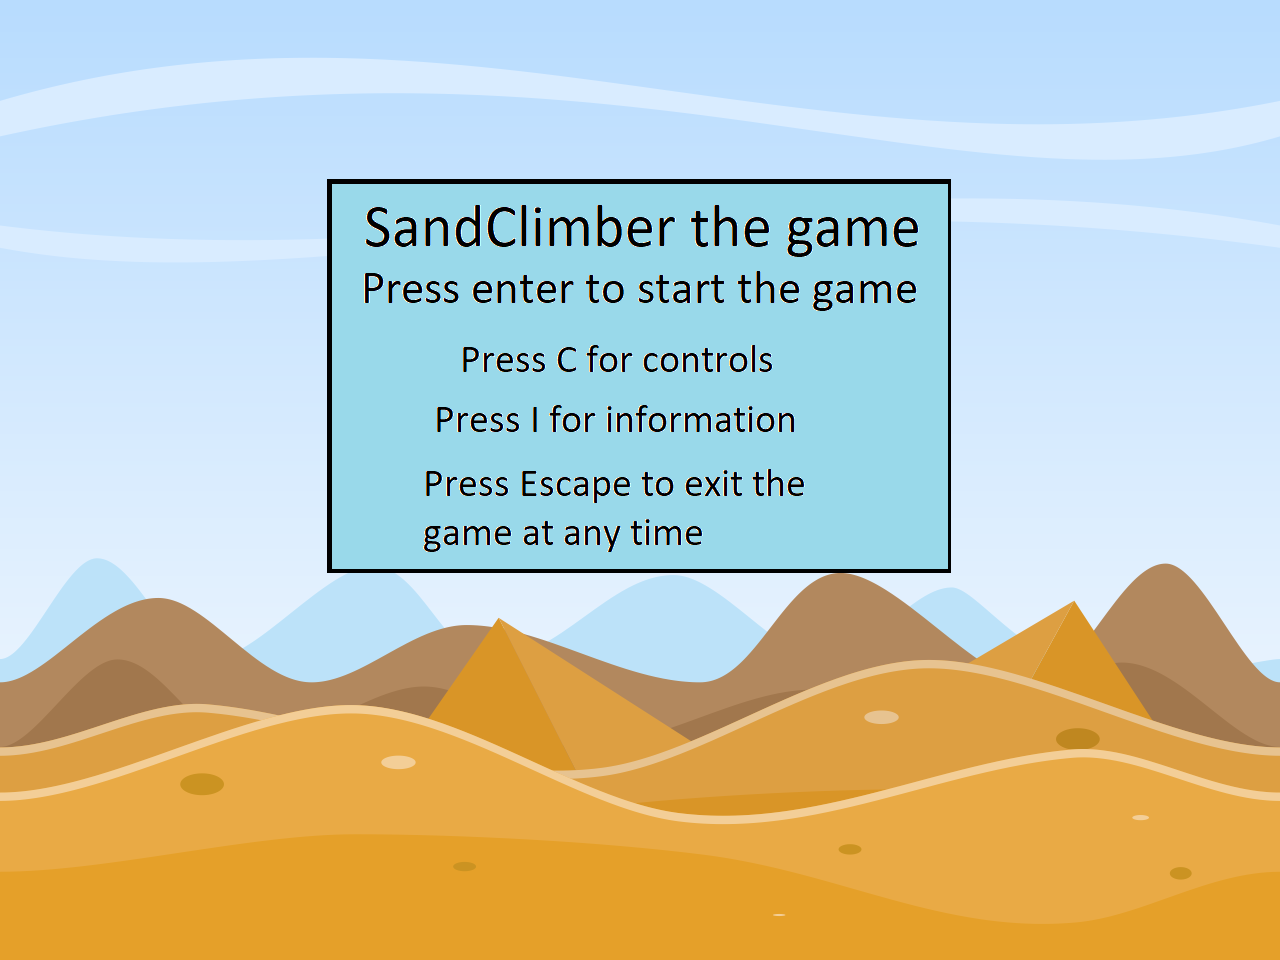
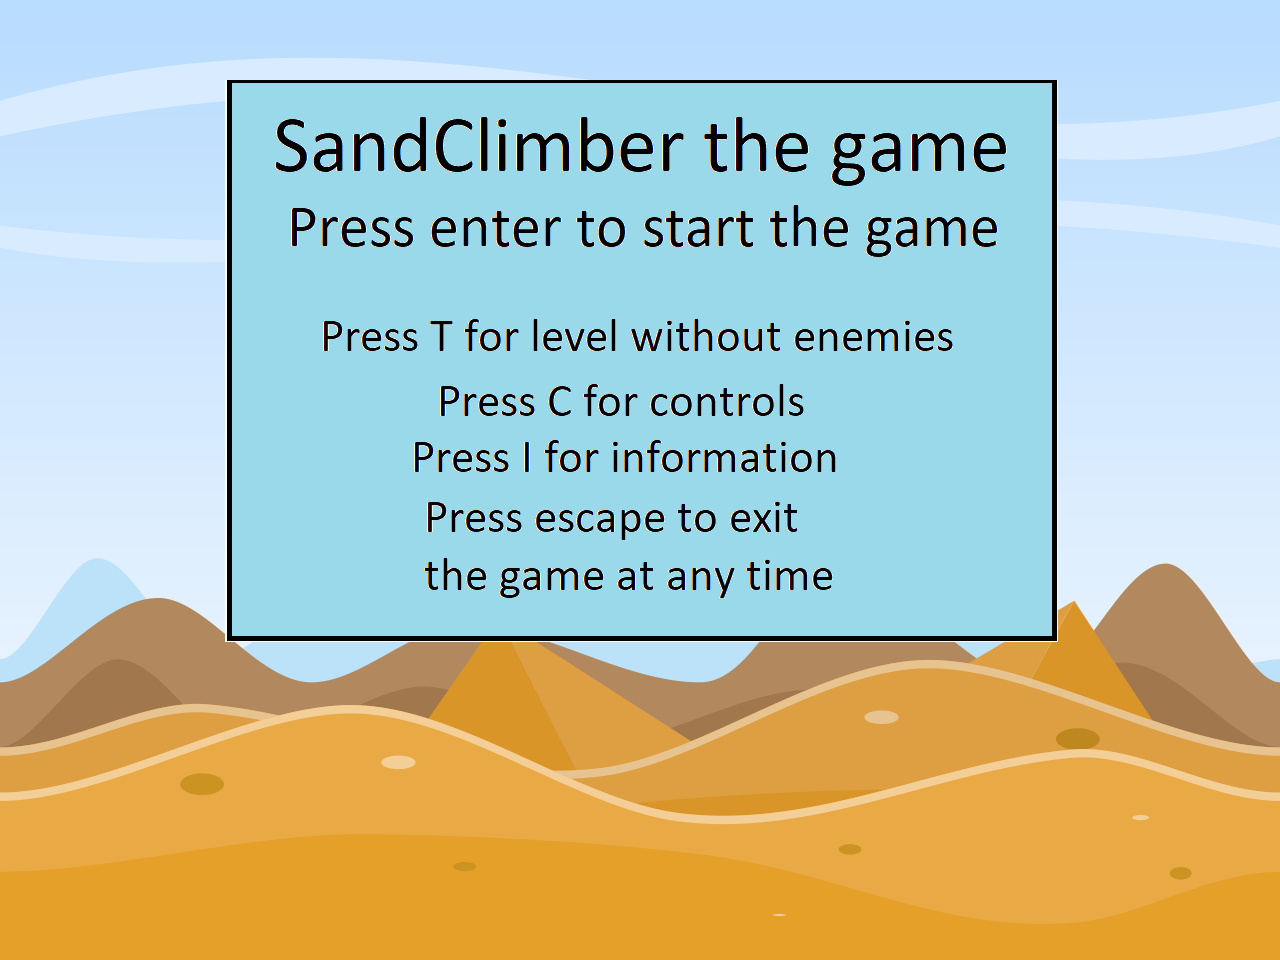
added new pictures and previousgamestate

Changed region(s): [[0.1562, 0.0625, 0.8438, 0.6875]]

diff --git a/2D_Game/2D_Game/Game1.cs b/2D_Game/2D_Game/Game1.cs
@@ -24,7 +24,7 @@ namespace _2D_Game
         public static int screenWidth;
         public static int screenHeight;
 
-        private Texture2D myBackground, menuImage, diedImage, wonImage;
+        private Texture2D myBackground, menuImage, diedImage, wonImage, controlsImage, infoImage;
         private Rectangle mainFrame;
 
         LevelFactoryWithEnemies level1, level2;
@@ -37,10 +37,13 @@ namespace _2D_Game
             level1,
             level2,
             Beginner,
+            Info,
+            Controls,
             GameWon,
             GameOver
         }
         GameState gameState = GameState.Menu;
+        GameState prevGameState = GameState.Menu;
 
         public Game1()
         {
@@ -86,6 +89,8 @@ namespace _2D_Game
             menuImage = Content.Load<Texture2D>("png/BGMenu");
             wonImage = Content.Load<Texture2D>("png/BGWON");
             diedImage = Content.Load<Texture2D>("png/BGDead");
+            controlsImage = Content.Load<Texture2D>("png/BGControls");
+            infoImage = Content.Load<Texture2D>("png/BGInfo");
 
             level1 = new Level1(Content, hero);
             level1.CreateLevel(Content);
@@ -133,15 +138,26 @@ namespace _2D_Game
                     {
                         hero.TimesDied = 0;
                         hero.Relocate();
+                        prevGameState = gameState;
                         gameState = GameState.level1;
                         //Hier dingen zetten die nu moeten laden (slechts 1x)
                     }
                     if (keyState.IsKeyDown(Keys.T))
                     {
-
                         hero.TimesDied = 0;
                         hero.Relocate();
+                        prevGameState = gameState;
                         gameState = GameState.Beginner;
+                    }
+                    if (keyState.IsKeyDown(Keys.I))
+                    {
+                        prevGameState = gameState;
+                        gameState = GameState.Info;
+                    }
+                    if (keyState.IsKeyDown(Keys.C))
+                    {
+                        prevGameState = gameState;
+                        gameState = GameState.Controls;
                     }
                     break;
                 case GameState.Beginner:
@@ -152,10 +168,12 @@ namespace _2D_Game
                     {
                         hero.TimesDied = 0;
                         hero.Relocate();
+                        prevGameState = gameState;
                         gameState = GameState.GameWon;
                     }
                     if (hero.TooManyDeaths)
                     {
+                        prevGameState = gameState;
                         gameState = GameState.GameOver;
                         hero.TimesDied = 0;
                         hero.TooManyDeaths = false;
@@ -171,11 +189,13 @@ namespace _2D_Game
                         hero.TimesDied = 0;
                         hero.Relocate();
                         level2.ReturnEnemiesToPlaces();
+                        prevGameState = gameState;
                         gameState = GameState.level2;
                         
                     }
                     if (hero.TooManyDeaths)
                     {
+                        prevGameState = gameState;
                         gameState = GameState.GameOver;
                         hero.TimesDied = 0;
                         hero.TooManyDeaths = false;
@@ -187,14 +207,34 @@ namespace _2D_Game
                     camera.Follow(hero.Position);
                     if (level2.LevelEnd)
                     {
+                        prevGameState = gameState;
                         gameState = GameState.GameWon;
 
                     }
                     if (hero.TooManyDeaths)
                     {
+                        prevGameState = gameState;
                         gameState = GameState.GameOver;
                         hero.TimesDied = 0;
                         hero.TooManyDeaths = false;
+                    }
+                    break;
+                case GameState.Info:
+                    camera.Follow(center);
+                    keyState = Keyboard.GetState();
+                    if (keyState.IsKeyDown(Keys.M))
+                    {
+                        prevGameState = gameState;
+                        gameState = GameState.Menu;
+                    }
+                    break;
+                case GameState.Controls:
+                    camera.Follow(center);
+                    keyState = Keyboard.GetState();
+                    if (keyState.IsKeyDown(Keys.M))
+                    {
+                        prevGameState = gameState;
+                        gameState = GameState.Menu;
                     }
                     break;
                 case GameState.GameOver:
@@ -202,11 +242,29 @@ namespace _2D_Game
                     keyState = Keyboard.GetState();
                     if (keyState.IsKeyDown(Keys.R))
                     {
-                        level1.ReturnEnemiesToPlaces();
-                        gameState = GameState.level1;
+                        switch (prevGameState)
+                        {
+                            case GameState.level1:
+                                level1.ReturnEnemiesToPlaces();
+                                prevGameState = gameState;
+                                gameState = GameState.level1;
+                                break;
+                            case GameState.level2:
+                                level2.ReturnEnemiesToPlaces();
+                                prevGameState = gameState;
+                                gameState = GameState.level2;
+                                break;
+                            case GameState.Beginner:
+                                prevGameState = gameState;
+                                gameState = GameState.Beginner;
+                                break;
+                            default:
+                                break;
+                        }
                     }
                     if (keyState.IsKeyDown(Keys.M))
                     {
+                        prevGameState = gameState;
                         gameState = GameState.Menu;
                     }
                     break;
@@ -215,11 +273,29 @@ namespace _2D_Game
                     keyState = Keyboard.GetState();
                     if (keyState.IsKeyDown(Keys.R))
                     {
-                        level1.ReturnEnemiesToPlaces();
-                        gameState = GameState.level1;
+                        switch (prevGameState)
+                        {
+                            case GameState.level1:
+                                level1.ReturnEnemiesToPlaces();
+                                prevGameState = gameState;
+                                gameState = GameState.level1;
+                                break;
+                            case GameState.level2:
+                                level2.ReturnEnemiesToPlaces();
+                                prevGameState = gameState;
+                                gameState = GameState.level2;
+                                break;
+                            case GameState.Beginner:
+                                prevGameState = gameState;
+                                gameState = GameState.Beginner;
+                                break;
+                            default:
+                                break;
+                        }
                     }
                     if (keyState.IsKeyDown(Keys.M))
                     {
+                        prevGameState = gameState;
                         gameState = GameState.Menu;
                         //Hier dingen zetten die nu moeten laden (slechts 1x)
                     }
@@ -266,6 +342,18 @@ namespace _2D_Game
                     level2.DrawWorld(spriteBatch);
                     hero.Draw(spriteBatch);
 
+                    spriteBatch.End();
+                    break;
+                case GameState.Info:
+                    spriteBatch.Begin(transformMatrix: camera.Transform);
+
+                    spriteBatch.Draw(infoImage, mainFrame, Color.AliceBlue);
+                    spriteBatch.End();
+                    break;
+                case GameState.Controls:
+                    spriteBatch.Begin(transformMatrix: camera.Transform);
+
+                    spriteBatch.Draw(controlsImage, mainFrame, Color.AliceBlue);
                     spriteBatch.End();
                     break;
                 case GameState.GameWon:
